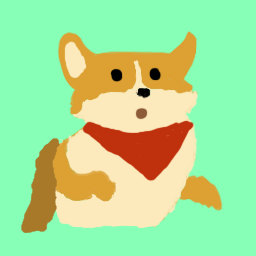
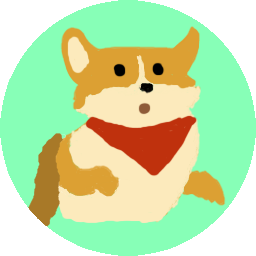
Bug fixes and adjustments
Tabs now display only hero names (or death status). Updated icon. Added icon into .exe

diff --git a/src/application.py b/src/application.py
@@ -1,5 +1,6 @@
 #!/usr/bin/python3
 import os
+import sys
 import threading
 from pathlib import Path
 
@@ -11,8 +12,16 @@ from player import Player
 player_ids = []
 
 
+def resource_path(relative_path):
+    """ Get absolute path to resource, works for dev and for PyInstaller """
+    if hasattr(sys, '_MEIPASS'):
+        return os.path.join(sys._MEIPASS, relative_path)
+
+    return os.path.join(os.path.abspath(".."), relative_path)
+
+
 def get_card_path(card_name: str, is_golden: bool):
-    path = Path(__file__).parent.parent.joinpath("cards/")
+    path = Path(os.environ["APPDATA"]).joinpath("SBBTracker/assets/cards/")
     # what the fuck is this
     actually_is_golden = is_golden if isinstance(is_golden, bool) else is_golden == "True"
     if card_name == "empty":
@@ -27,6 +36,7 @@ def get_card_path(card_name: str, is_golden: bool):
 def construct_player_layout(player: Player, index: int):
     ind = str(index)
     layout = [
+        [sg.Text("Health: 40", font="Courier 20", key=f"{index}health")],
         [sg.Image(get_card_path(player.get_minion(1).name, False), pad=((300, 0), 0), key=ind + "0"),
          sg.Image(get_card_path(player.get_minion(2).name, False), key=ind + "1"),
          sg.Image(get_card_path(player.get_minion(3).name, False), key=ind + "2"),
@@ -50,8 +60,11 @@ def get_tab_key(index: int):
 def update_player(window: sg.Window, update: LogParser.Update):
     state = update.state
     index = get_player_index(state.playerid)
-    window[get_tab_key(index)].update(title=f"{state.displayname} - {state.heroname}")
+    player_tab = window[get_tab_key(index)]
+    title = f"{state.heroname}" if state.health > 0 else f"{state.heroname} *DEAD*"
+    player_tab.update(title=title)
     window[f"{index}{11}"].update(filename=get_card_path(state.heroname, False))
+    window[f"{index}health"].update(f"Health: {state.health}")
 
 
 def update_board(window: sg.Window, update: LogParser.Update):
@@ -98,7 +111,7 @@ def the_gui():
                        justification='center')], tabgroup]
 
     window = sg.Window('SBBTracker', layout, resizable=True, finalize=True, size=(1920, 1080),
-                       icon="icon.png")
+                       icon=resource_path("sbbt.ico"))
     threading.Thread(target=LogParser.run, args=(window,), daemon=True).start()
 
     # --------------------- EVENT LOOP ---------------------
